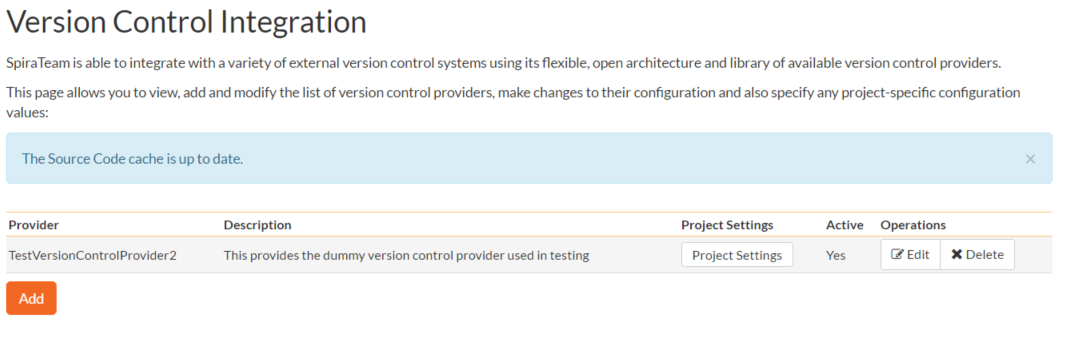
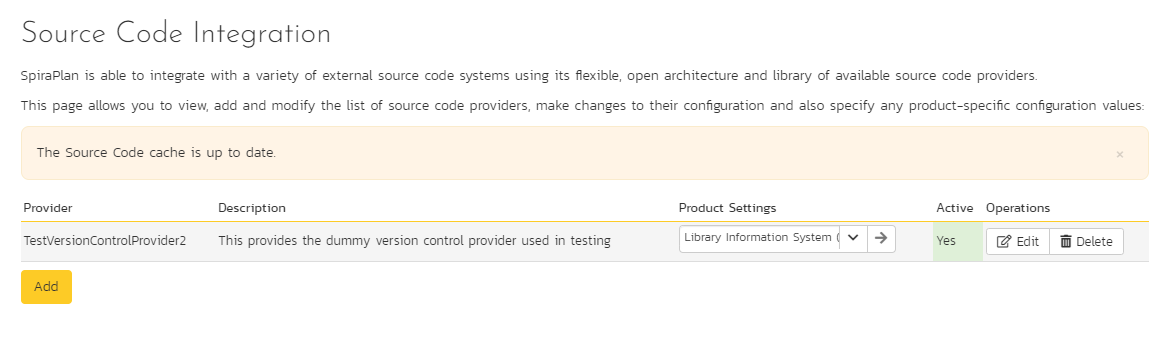
updates for TaraVault changes

Changed region(s): [[0.0, 0.1458, 1.0, 0.5539], [0.0, 0.5831, 0.9688, 0.9329], [0.0, 0.0292, 0.3438, 0.1458]]

diff --git a/docs/Spira-Administration-Guide/System-Integration.md b/docs/Spira-Administration-Guide/System-Integration.md
@@ -42,7 +42,14 @@ To configure a source code provider, you need to click on the System Administrat
 
 By default the only provider listed will be the TestVersionControlProvider which is used for demonstration purposes only, and can be deleted from a production system by clicking on the "Delete" button to the right of it.
 
-To add a new source code provider, click the "Add" button to enter the Plug-in details page. The fields required are as follows:
+To edit the system wide settings for an existing source code provider, click on the "Edit" button on the far right of the row for that provider. You can edit the same settings that were shown above when you first created that provider.
+
+If you want to change the settings for a particular product (including to turn that provider on or off for the product):
+
+- make sure the product dropdown in that row has the correct product selected (the dropdown shows products that are either already using that provider, or that have no source code provider at all)
+- click the arrow to the right of the product name to manage [that provider for that Product](../Product-General-Settings/#source-code).
+
+To add a new source code provider, click the "Add" button at the bottom to go to the Plug-in details page:
 ![](img/System_Integration_77.png)
 
 -   **Name**: The name of the source code provider that you're adding. This needs to match the name of the Plug-in DLL file that you're using (see the specific page for that provider in this documentation - eg [Git](../../Version-Control-Integration/Integrating-with-Git/)).
@@ -55,10 +62,6 @@ To add a new source code provider, click the "Add" button to enter the Plug-in d
 When finished, click the "Insert" button and you will be taken back to the Source Code integration list page, with new provider listed as an available plug-in:
 
 ![](img/System_Integration_78.png)
-
-To edit the settings for an existing source code provider, click on the "Edit" button on the far right of the row for that provider. You can edit the same settings that were shown above when you first created that provider.
-
-If you want to change the settings for a particular product, make sure the product dropdown in that row has the correct product selected; and click the arrow to the right of the product name to manage [that provider for that Product](../Product-General-Settings/#source-code).
 
 
 ## Test Automation

diff --git a/docs/Spira-Administration-Guide/System.md b/docs/Spira-Administration-Guide/System.md
@@ -22,7 +22,7 @@ The available settings include:
 - **Event Log Retention**: As described in  [Event Log](#event-log), SpiraPlan comes with a built-in diagnostic event log. By default the system will only retain the last 30-days of events to avoid wasting storage space. You can adjust the retention period in this section to match your organization's policies.
 - **Enable Free Text Indexes**: This tells SpiraPlan to use SQL Server Free Text Indexing to speed up keyword searches in the Global Search box. You should only have this set to "Yes" if you have the Free Text Indexing featured enabled in SQL Server, otherwise you will cause SpiraPlan to display error messages when users try and use the global search.
 - **Disable Rollup Calculations**: (default = no) Setting this to Yes will prevent the system from calculating 'rollup' metrics when data is entered for any product in the system. This should not be done unless you have been told by the Inflectra Support team to do so. To disable rollup calculations for a specific product instead use the product admin level [equivalent setting](../Product-Planning/#testing-settings). 
-- **Use TaraVault for source code**: This toggle is only available to cloud hosted versions of SpiraTeam and SpiraPlan. Cloud hosted applications will, by default, use [TaraVault](../../TaraVault-User-Manual/Activating-TaraVault) for source code management. Administrators can turn off TaraVault and then connect directly to any third party source code provider they choose.
+- **Use TaraVault for source code**: This toggle is only available in cloud hosted versions of SpiraTeam and SpiraPlan. When enabled (the default), every Spira product will use [TaraVault](../../TaraVault-User-Manual/Activating-TaraVault) for source code management. If disabled (set the toggle to no) each product can either use TaraVault or an external (and cloud accessible) Git or Subversion provider of your choice, such as BitBucket, GitLab or Azure DevOps. **Note**: You can enable/disable this setting at anytime, but doing so may impact your ability to access your source code settings.
 
 
 ## File Type Icons
